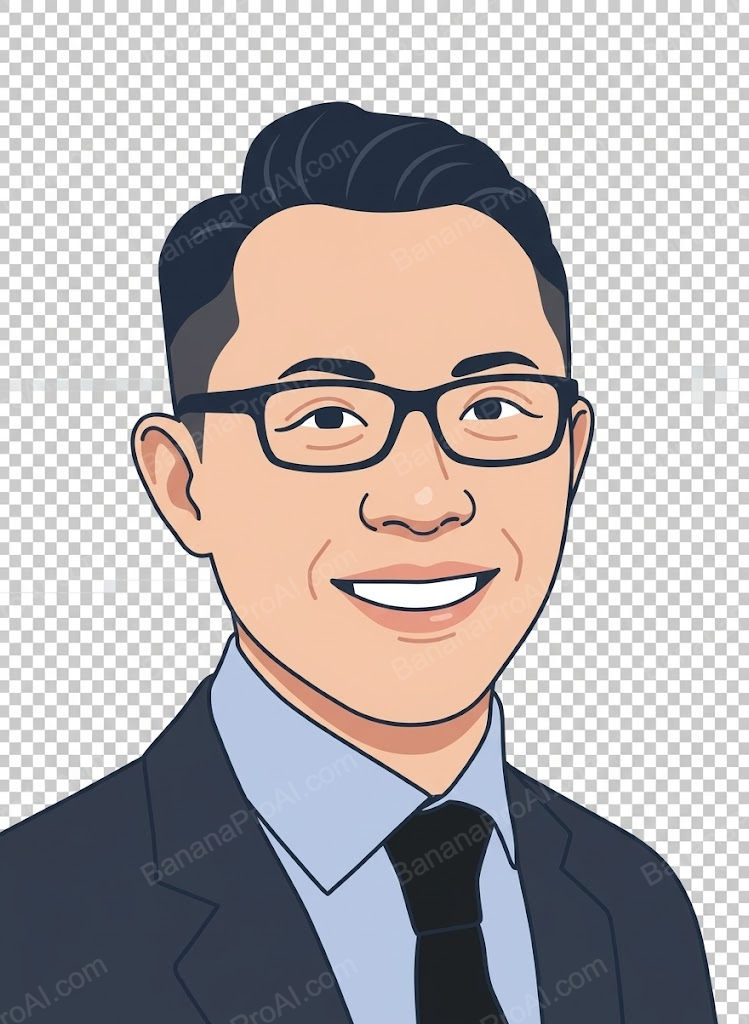
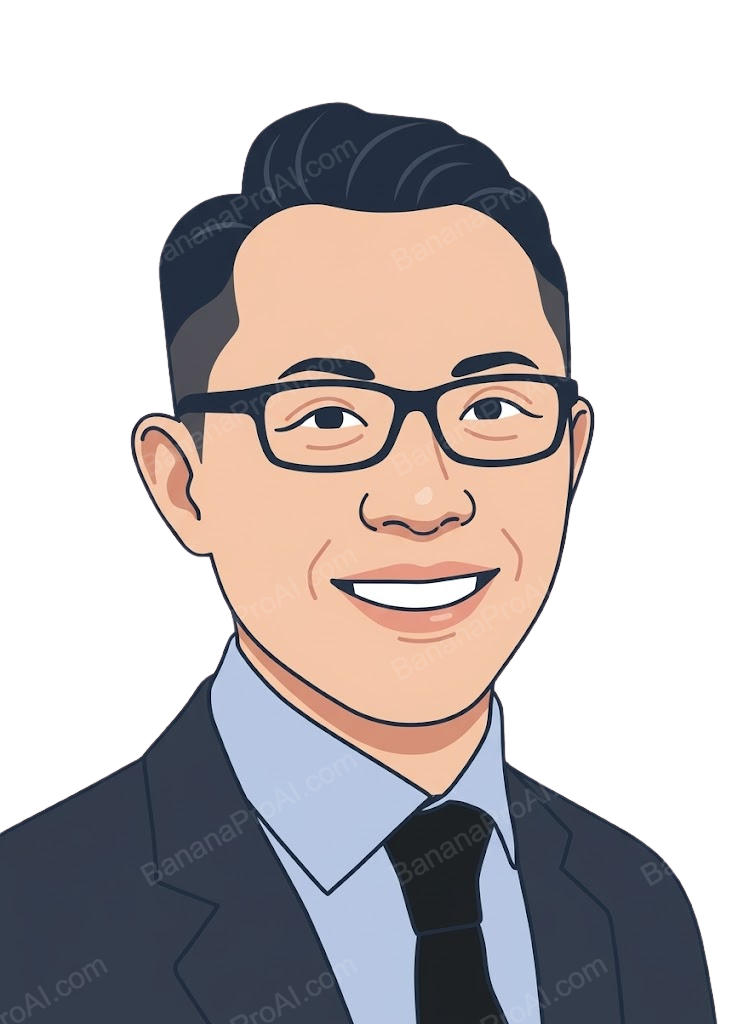
remove.bg photo

Changed region(s): [[0.0, 0.0, 1.0, 1.0]]

diff --git a/app/page.tsx b/app/page.tsx
@@ -375,9 +375,9 @@ export default function AskCK() {
             <div className="hero-text">
               <p className="byline">Chris King · Singapore</p>
               <h1 className="hero-headline">
-                Programme<br />
-                delivery,<br />
-                <em>done right.</em>
+                Delivering<br />
+                what matters,<br />
+                <em>on time.</em>
               </h1>
               <p className="hero-sub">
                 14+ years delivering public sector digital transformation